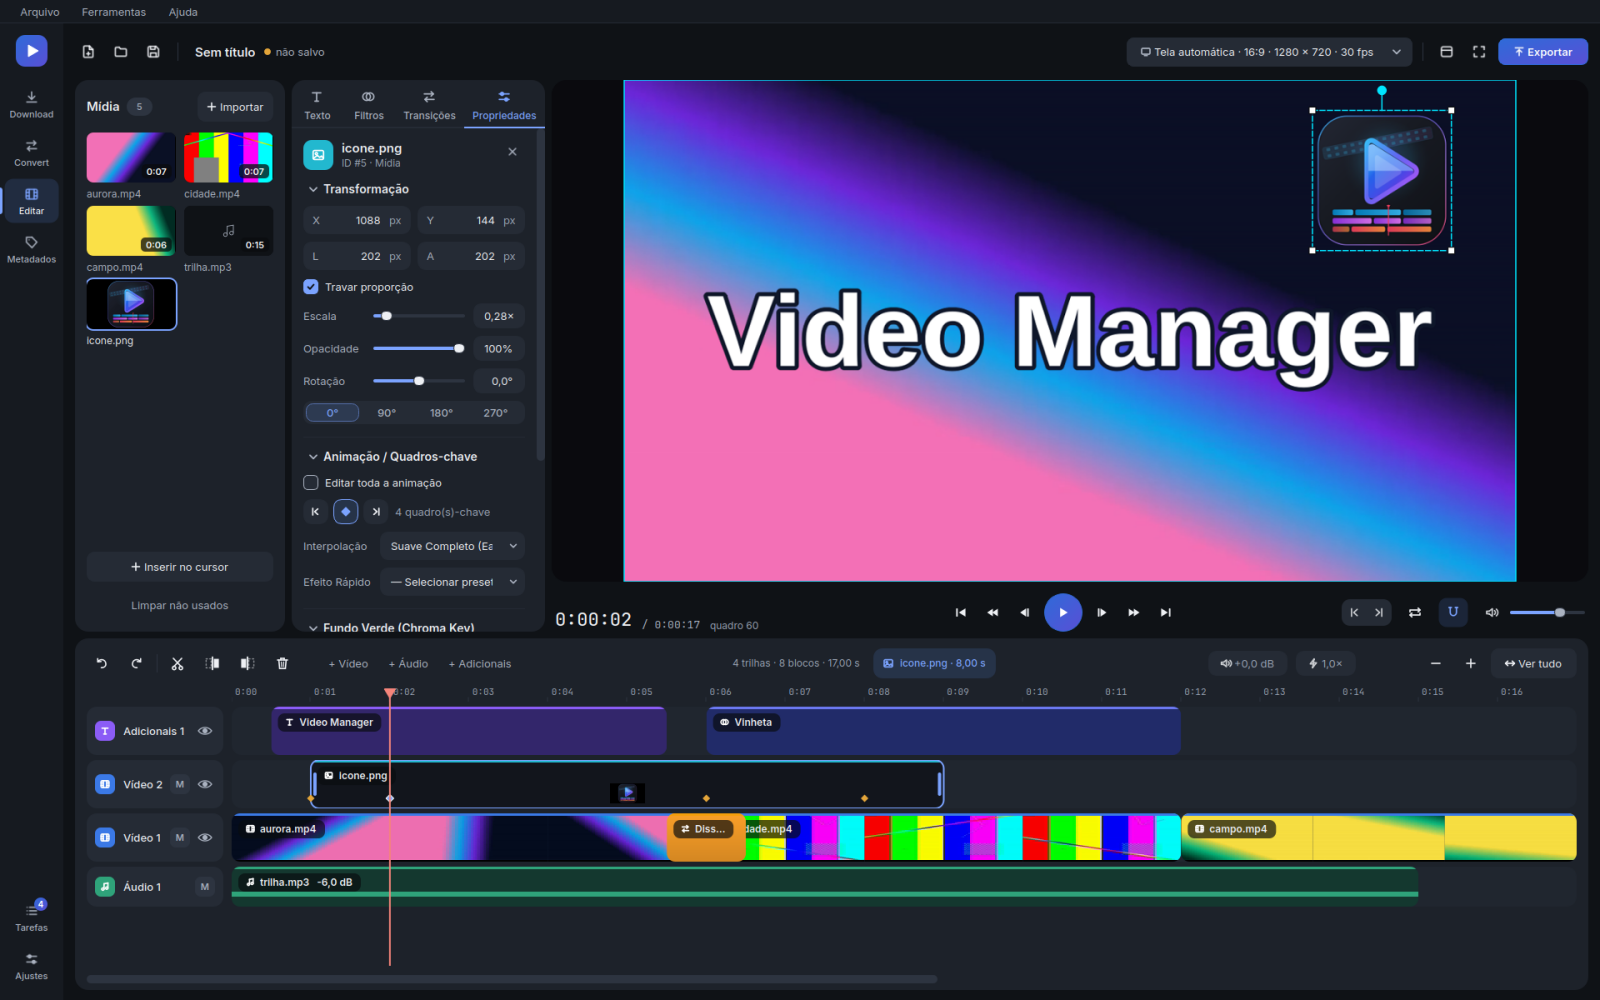
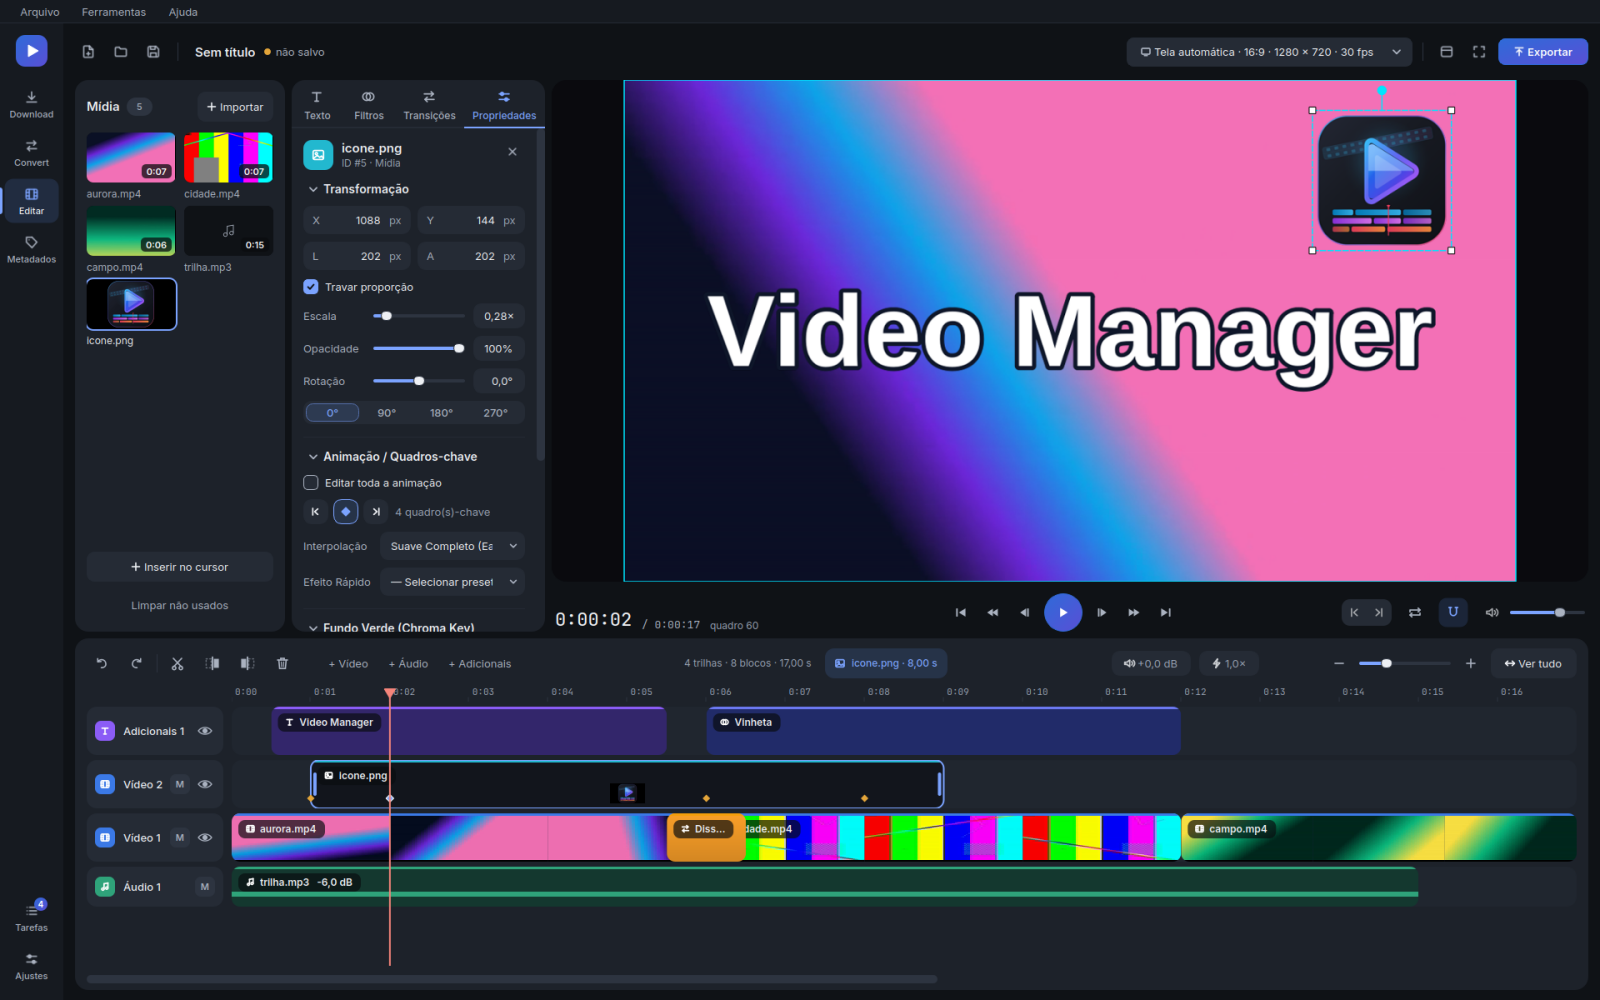
feat: zoom deslizante na linha do tempo
A barra da linha do tempo ganha o controle deslizante entre − e +, como no
protótipo (p-tl-bar2). Ele fala com a linha do tempo pela mesma janela que a
roda do mouse, os botões e "Ver tudo", e acompanha o que eles fazem: o curso
vai de "ver tudo" (esquerda) à janela mais fechada de 0,4 s (direita), em escala
logarítmica, porque cada passo multiplica a janela pelo mesmo fator; numa escala
linear quase todo o curso ficava entre "ver tudo" e "ver tudo um pouco mais
perto". Arrastar o controle mantém o cursor no mesmo lugar da tela.

O primeiro desenho tinha largura e vão fixos e somava 116 px ao mínimo do editor
(1141 → 1257), cortando "Exportar" e "Ver tudo" a 1280 px. O controle pede 110 px
(`_ZoomSlider`) e cede até 56, e o vão de 72 px entre o volume e o zoom passa a
ceder até zero: o mínimo do editor medido é 1131 (antes 1141), e a 1600 px o
controle tem os 110 do protótipo. Um fator de esticamento no layout o deixava
com 56 px numa janela de 1500, e um teste varre as larguras para isso.

Retrato contra a versão anterior: 8 diferenças, todas no `_clip_chip` (o grupo
da direita ficou mais largo, e a pastilha, que fica entre dois espaçadores,
anda metade disso para a esquerda).

diff --git a/tests/test_linha_do_tempo_visual.py b/tests/test_linha_do_tempo_visual.py
@@ -17,7 +17,7 @@ from PySide6.QtWidgets import QApplication, QFrame
 
 from test_linha_do_tempo_tipos import _projeto
 from videomanager.domain.project import Clip, MediaKind, MediaRef
-from videomanager.presentation.qt import theme
+from videomanager.presentation.qt import strings, theme
 from videomanager.presentation.qt.panels import timeline as modulo
 from videomanager.presentation.qt.panels.timeline import (
     AUDIO_TRACK_HEIGHT, FILM_CELL_WIDTH, HEADER_WIDTH, THUMB_HEIGHT, TRACK_GAP, Timeline, VIDEO_TRACK_HEIGHT, WAVE_HEIGHT,
@@ -209,3 +209,112 @@ def test_a_linha_do_tempo_e_um_cartao_com_margem_de_14(tema_do_app, painel_de_ed
     assert caixa.property("role") == "pane"
     margens = caixa.layout().contentsMargins()
     assert (margens.left(), margens.top(), margens.right(), margens.bottom()) == (14, 12, 14, 8)
+
+
+# -- zoom -----------------------------------------------------------------------------------------------------
+
+def test_a_fracao_do_zoom_e_logaritmica_vai_de_zero_na_janela_mais_aberta_a_um_na_mais_fechada(linha):
+    timeline, _ = linha
+    largest = timeline._max_span
+    timeline.set_zoom_fraction(0.0)
+    assert timeline.view_span == pytest.approx(largest) and timeline.zoom_fraction() == pytest.approx(0.0, abs=1e-6)
+    timeline.set_zoom_fraction(1.0)
+    assert timeline.view_span == pytest.approx(modulo._MIN_VIEW) and timeline.zoom_fraction() == pytest.approx(1.0, abs=1e-6)
+    # Cada passo multiplica a janela pelo mesmo fator: a do meio é a média geométrica das duas pontas.
+    timeline.set_zoom_fraction(0.5)
+    assert timeline.view_span == pytest.approx((largest * modulo._MIN_VIEW) ** 0.5, rel=1e-3)
+    espans = []
+    for passo in range(0, 11):
+        timeline.set_zoom_fraction(passo / 10)
+        espans.append(timeline.view_span)
+    assert espans == sorted(espans, reverse=True)
+
+
+def test_o_zoom_pelo_controle_mantem_o_cursor_no_mesmo_lugar_da_tela(linha):
+    timeline, _ = linha
+    timeline.set_view(0.0, 8.0)
+    timeline.set_position(3.0)
+    antes = timeline._x_of(3.0)
+    timeline.set_zoom_fraction(0.8, anchor=3.0)
+    assert abs(timeline._x_of(3.0) - antes) < 1.0
+    assert timeline.view_span < 8.0
+
+
+def test_o_controle_de_zoom_fica_entre_menos_e_mais_e_acompanha_a_janela(tema_do_app, painel_de_edicao, blocos_de_edicao):
+    painel = painel_de_edicao
+    painel.resize(1700, 1000)
+    painel.show()
+    for _ in range(5):
+        QApplication.processEvents()
+    barra = painel._zoom_slider
+    assert barra.width() == 110 and barra.toolTip() == strings.EDIT_ZOOM_SLIDER and barra.accessibleName()
+    x = lambda w: w.mapTo(painel, w.rect().topLeft()).x()
+    assert x(painel._zoom_out_button) < x(barra) < x(painel._zoom_in_button)
+    # Ver tudo, aproximar pelo botão e pela roda: o controle vai junto, sem que ele mande de volta.
+    painel._timeline.fit()
+    fit = barra.value()
+    assert fit == round(painel._timeline.zoom_fraction() * 1000)
+    painel._zoom_in_button.click()
+    assert barra.value() > fit and barra.value() == round(painel._timeline.zoom_fraction() * 1000)
+    painel._zoom_out_button.click()
+    painel._zoom_out_button.click()
+    assert barra.value() < fit
+    # E arrastar o controle muda a janela: a mais fechada mostra o piso de 0,4 s; a mais aberta, a maior possível.
+    barra.setValue(1000)
+    assert painel._timeline.view_span == pytest.approx(modulo._MIN_VIEW, rel=1e-3)
+    barra.setValue(0)
+    assert painel._timeline.view_span == pytest.approx(painel._timeline._max_span, rel=1e-3)
+    assert barra.value() == 0
+
+
+def test_o_controle_de_zoom_ao_acompanhar_a_janela_nao_a_move_de_volta(tema_do_app, painel_de_edicao, blocos_de_edicao, monkeypatch):
+    # Se o ajuste do controle chegasse à linha do tempo, o arredondamento a cada passo (1/1000) faria a janela derivar
+    # sozinha a cada toque na roda ou no botão: o que o usuário pediu não é o que ele recebe.
+    painel = painel_de_edicao
+    painel.resize(1700, 1000)
+    painel.show()
+    for _ in range(5):
+        QApplication.processEvents()
+    chamadas = []
+    original = painel._timeline.set_zoom_fraction
+    monkeypatch.setattr(painel._timeline, "set_zoom_fraction", lambda *a, **k: (chamadas.append(a), original(*a, **k)))
+    painel._timeline.fit()
+    painel._zoom_in_button.click()
+    painel._zoom_in_button.click()
+    painel._timeline.zoom(0.7, 1.0)
+    assert chamadas == []
+
+
+def test_o_controle_de_zoom_so_soma_o_proprio_minimo_a_barra_e_o_vao_ate_o_zoom_encolhe(
+        tema_do_app, painel_de_edicao, blocos_de_edicao):
+    """O primeiro desenho tinha largura fixa de 110 e um vão fixo de 72: somavam 116 px ao mínimo do editor, que passou de
+    1141 para 1257 e cortou "Exportar" e "Ver tudo" numa janela de 1280 px. Folga e controle cedem antes de a barra crescer."""
+    painel = painel_de_edicao
+    barra = painel._zoom_slider
+    x = lambda w: w.mapTo(painel, w.rect().topLeft()).x()
+    vao = lambda: x(painel._zoom_out_button) - (x(painel._speed_btn) + painel._speed_btn.width())
+
+    def assentar(largura):
+        painel.resize(largura, 1000)
+        painel.show()
+        for _ in range(5):
+            QApplication.processEvents()
+
+    assentar(1700)
+    assert barra.width() == 110 and vao() >= 72
+    # Com o vão já inteiro, o controle também: ele pede os 110 e só cede junto com a folga (um fator de esticamento no
+    # ``addWidget`` o fazia dividir a sobra com os espaçadores e ficar em 56 numa janela de 1500 px).
+    inteiro = vao()
+    for largura in range(1300, 1700, 40):
+        assentar(largura)
+        assert vao() < inteiro or barra.width() == 110, (largura, vao(), barra.width())
+    com = painel.minimumSizeHint().width()
+    barra.hide()
+    QApplication.processEvents()
+    sem = painel.minimumSizeHint().width()
+    barra.show()
+    QApplication.processEvents()
+    assert com - sem <= 56 + 12, (com, sem)
+    assentar(com)
+    assert barra.width() < 110 and vao() < 72
+    assert x(painel._fit_button) + painel._fit_button.width() <= painel.width()

diff --git a/src/videomanager/presentation/qt/panels/edit_panel.py b/src/videomanager/presentation/qt/panels/edit_panel.py
@@ -76,6 +76,7 @@ from PySide6.QtWidgets import (
     QScrollArea,
     QScrollBar,
     QSizePolicy,
+    QSpacerItem,
     QSlider,
     QSpinBox,
     QSplitter,
@@ -253,8 +254,13 @@ _BACKGROUND_WORKERS = 2  # tira, onda e keyframes, que podem esperar
 # leem como um grupo só, e o usuário procura em "desfazer" o alvo que "excluir"
 # tem. É mais que o espaçamento normal da barra, que é 6.
 _TOOL_GROUP_GAP = 22
-# Distância entre o volume do bloco e o grupo de zoom, na outra ponta da barra.
+# Passos do controle deslizante de zoom: o bastante para o curso ser suave sem que um passo seja menos que um pixel.
+_ZOOM_STEPS = 1000
+# Distância entre o volume do bloco e o grupo de zoom, na outra ponta da barra. É uma folga, não conteúdo: cede até zero
+# quando a janela estreita, senão o controle deslizante de zoom subia o mínimo da barra e cortava "Exportar" a 1280 px.
 _VOLUME_ZOOM_GAP = 72
+# Largura do controle deslizante de zoom: mínima e preferida (a do protótipo).
+_ZOOM_SLIDER_MIN, _ZOOM_SLIDER_WIDTH = 56, 110
 
 # Em quantos passos uma seta da barra de navegação atravessa a janela visível.
 # Dez dá um passo curto o bastante para ajustar e longo o bastante para andar.
@@ -472,6 +478,22 @@ class _ScrollPage(QScrollArea):
     def sizeHint(self) -> QSize:  # noqa: N802
         hint = self.widget().sizeHint()
         return QSize(hint.width(), min(hint.height(), _PAGE_HEIGHT_MAX))
+
+
+class _ZoomSlider(QSlider):
+    """Pede os 110 px do protótipo e aceita menos quando a barra aperta.
+
+    O ``sizeHint`` do ``QSlider`` é 84 px, e com esse palpite o layout o deixava no mínimo em janelas de 1600 px, que têm
+    espaço de sobra. Largura fixa também não serve: somava 116 px ao mínimo da barra e cortava "Exportar" a 1280 px.
+    """
+
+    def __init__(self) -> None:
+        super().__init__(Qt.Orientation.Horizontal)
+        self.setMinimumWidth(_ZOOM_SLIDER_MIN)
+        self.setMaximumWidth(_ZOOM_SLIDER_WIDTH)
+
+    def sizeHint(self) -> QSize:
+        return QSize(_ZOOM_SLIDER_WIDTH, super().sizeHint().height())
 
 
 def _bounded_pool(parent: QObject, threads: int) -> QThreadPool:
@@ -2186,8 +2208,16 @@ class EditPanel(QWidget):
         row.addWidget(self._speed_btn)
         # Folga larga: o volume é do bloco escolhido, o zoom é da vista. Encostar
         # um no outro faria a barra terminar num amontoado de coisas sem relação.
-        row.addSpacing(_VOLUME_ZOOM_GAP)
+        row.addItem(QSpacerItem(_VOLUME_ZOOM_GAP, 0, QSizePolicy.Policy.Preferred, QSizePolicy.Policy.Minimum))
 
+        # Menos, o controle deslizante e mais: o controle fala com a linha do tempo pela mesma janela que a roda do mouse e os
+        # botões, e acompanha o que eles fazem (``_on_view_changed``).
+        self._zoom_slider = _ZoomSlider()
+        self._zoom_slider.setRange(0, _ZOOM_STEPS)
+        bind(self._zoom_slider, "setToolTip", lambda: strings.EDIT_ZOOM_SLIDER)
+        bind(self._zoom_slider, "setAccessibleName", lambda: strings.EDIT_ZOOM_SLIDER)
+        self._zoom_slider.valueChanged.connect(
+            lambda value: self._timeline.set_zoom_fraction(value / _ZOOM_STEPS, self._position))
         for atributo, tip, slot in (
             ("_zoom_out_button", lambda: strings.EDIT_ZOOM_OUT, lambda: self._zoom(1 / _ZOOM_FACTOR)),
             ("_zoom_in_button", lambda: strings.EDIT_ZOOM_IN, lambda: self._zoom(_ZOOM_FACTOR)),
@@ -2201,6 +2231,8 @@ class EditPanel(QWidget):
             button.clicked.connect(slot)
             row.addWidget(button)
             setattr(self, atributo, button)
+            if atributo == "_zoom_out_button":
+                row.addWidget(self._zoom_slider)
         fit = bind(QPushButton(), "setText", lambda: strings.EDIT_ZOOM_FIT)
         fit.setProperty("role", "btn")
         self._fit_button = fit
@@ -3920,6 +3952,7 @@ class EditPanel(QWidget):
     # ------------------------------------------------------------------
 
     def _on_view_changed(self) -> None:
+        self._sync_zoom_slider()
         self._sync_scrollbar()
         self._view_timer.start()
 
@@ -4963,6 +4996,14 @@ class EditPanel(QWidget):
 
     def _zoom(self, factor: float) -> None:
         self._timeline.zoom(factor, self._position)
+
+    def _sync_zoom_slider(self) -> None:
+        """O controle de zoom acompanha a janela, qualquer que seja quem a mudou (roda, botões, ver tudo, ele mesmo)."""
+        position = round(self._timeline.zoom_fraction() * _ZOOM_STEPS)
+        if self._zoom_slider.value() != position:
+            blocked = self._zoom_slider.blockSignals(True)
+            self._zoom_slider.setValue(position)
+            self._zoom_slider.blockSignals(blocked)
 
     def _sync_scrollbar(self) -> None:
         """Põe a barra de navegação de acordo com a janela visível.

diff --git a/src/videomanager/presentation/qt/panels/timeline.py b/src/videomanager/presentation/qt/panels/timeline.py
@@ -27,6 +27,7 @@ from dataclasses import dataclass, field
 from typing import cast
 
 import json
+import math
 from pathlib import Path
 
 from PySide6.QtCore import QEvent, QMimeData, QPointF, QRect, QRectF, Qt, QTimer, Signal
@@ -545,6 +546,26 @@ class Timeline(QWidget):
         anchor = self._position if anchor is None else anchor
         ratio = (anchor - self._view_start) / self.view_span
         span = self.view_span / factor
+        self.set_view(anchor - ratio * span, anchor - ratio * span + span)
+
+    def zoom_fraction(self) -> float:
+        """Onde a janela de agora está entre a mais aberta (0) e a mais fechada (1), em escala logarítmica.
+
+        Cada passo do controle deslizante multiplica a janela pelo mesmo fator, como a roda do mouse e os botões: numa escala
+        linear, quase todo o curso ficava entre "ver tudo" e "ver tudo um pouco mais perto".
+        """
+        largest = self._max_span
+        if largest <= _MIN_VIEW:
+            return 1.0
+        return max(0.0, min(1.0, math.log(largest / self.view_span) / math.log(largest / _MIN_VIEW)))
+
+    def set_zoom_fraction(self, fraction: float, anchor: float | None = None) -> None:
+        """A janela correspondente a ``fraction`` (ver ``zoom_fraction``), mantendo o ``anchor`` (o cursor) no mesmo lugar da tela."""
+        largest = self._max_span
+        fraction = max(0.0, min(1.0, fraction))
+        span = largest * math.exp(-fraction * math.log(largest / _MIN_VIEW)) if largest > _MIN_VIEW else _MIN_VIEW
+        anchor = self._position if anchor is None else anchor
+        ratio = (anchor - self._view_start) / self.view_span
         self.set_view(anchor - ratio * span, anchor - ratio * span + span)
 
     def _keep_visible(self, seconds: float) -> None:

diff --git a/src/videomanager/presentation/qt/strings.py b/src/videomanager/presentation/qt/strings.py
@@ -635,6 +635,7 @@ EDIT_UNDO = "Desfazer"
 EDIT_REDO = "Refazer"
 EDIT_ZOOM_IN = "Aproximar"
 EDIT_ZOOM_OUT = "Afastar"
+EDIT_ZOOM_SLIDER = "Zoom da linha do tempo"
 EDIT_ZOOM_FIT = "Ver tudo"
 EDIT_ZOOM_FIT_TIP = (
     "Enquadra a edição inteira. Afastar além disso continua valendo — o vazio "

diff --git a/src/videomanager/presentation/qt/strings_en.py b/src/videomanager/presentation/qt/strings_en.py
@@ -630,6 +630,7 @@ EDIT_UNDO = "Undo"
 EDIT_REDO = "Redo"
 EDIT_ZOOM_IN = "Zoom In"
 EDIT_ZOOM_OUT = "Zoom Out"
+EDIT_ZOOM_SLIDER = "Timeline zoom"
 EDIT_ZOOM_FIT = "Fit All"
 EDIT_ZOOM_FIT_TIP = (
     "Frames the whole edit. Zooming out further still works — the empty space "

diff --git a/docs/guia-edicao.md b/docs/guia-edicao.md
@@ -179,8 +179,11 @@ Da esquerda para a direita:
    o áudio já separado para outra trilha não tem mais volume próprio ali).
 10. **Velocidade do bloco** (pastilha com o raio e a velocidade, como `1,0×`) — ver
     [Velocidade e volume do bloco](#velocidade-e-volume-do-bloco).
-11. Zoom: **−** / **+** / **Ver tudo** (enquadra o projeto inteiro na largura
-    visível).
+11. Zoom: **−** / controle deslizante / **+** / **Ver tudo** (enquadra o projeto
+    inteiro na largura visível). O controle deslizante vai de "ver tudo", à
+    esquerda, até a janela mais fechada (0,4 s), à direita, e acompanha o que a
+    roda do mouse e os botões fazem; arrastá-lo mantém o cursor de reprodução no
+    mesmo lugar da tela.
 
 ### Gestos com o mouse
 
